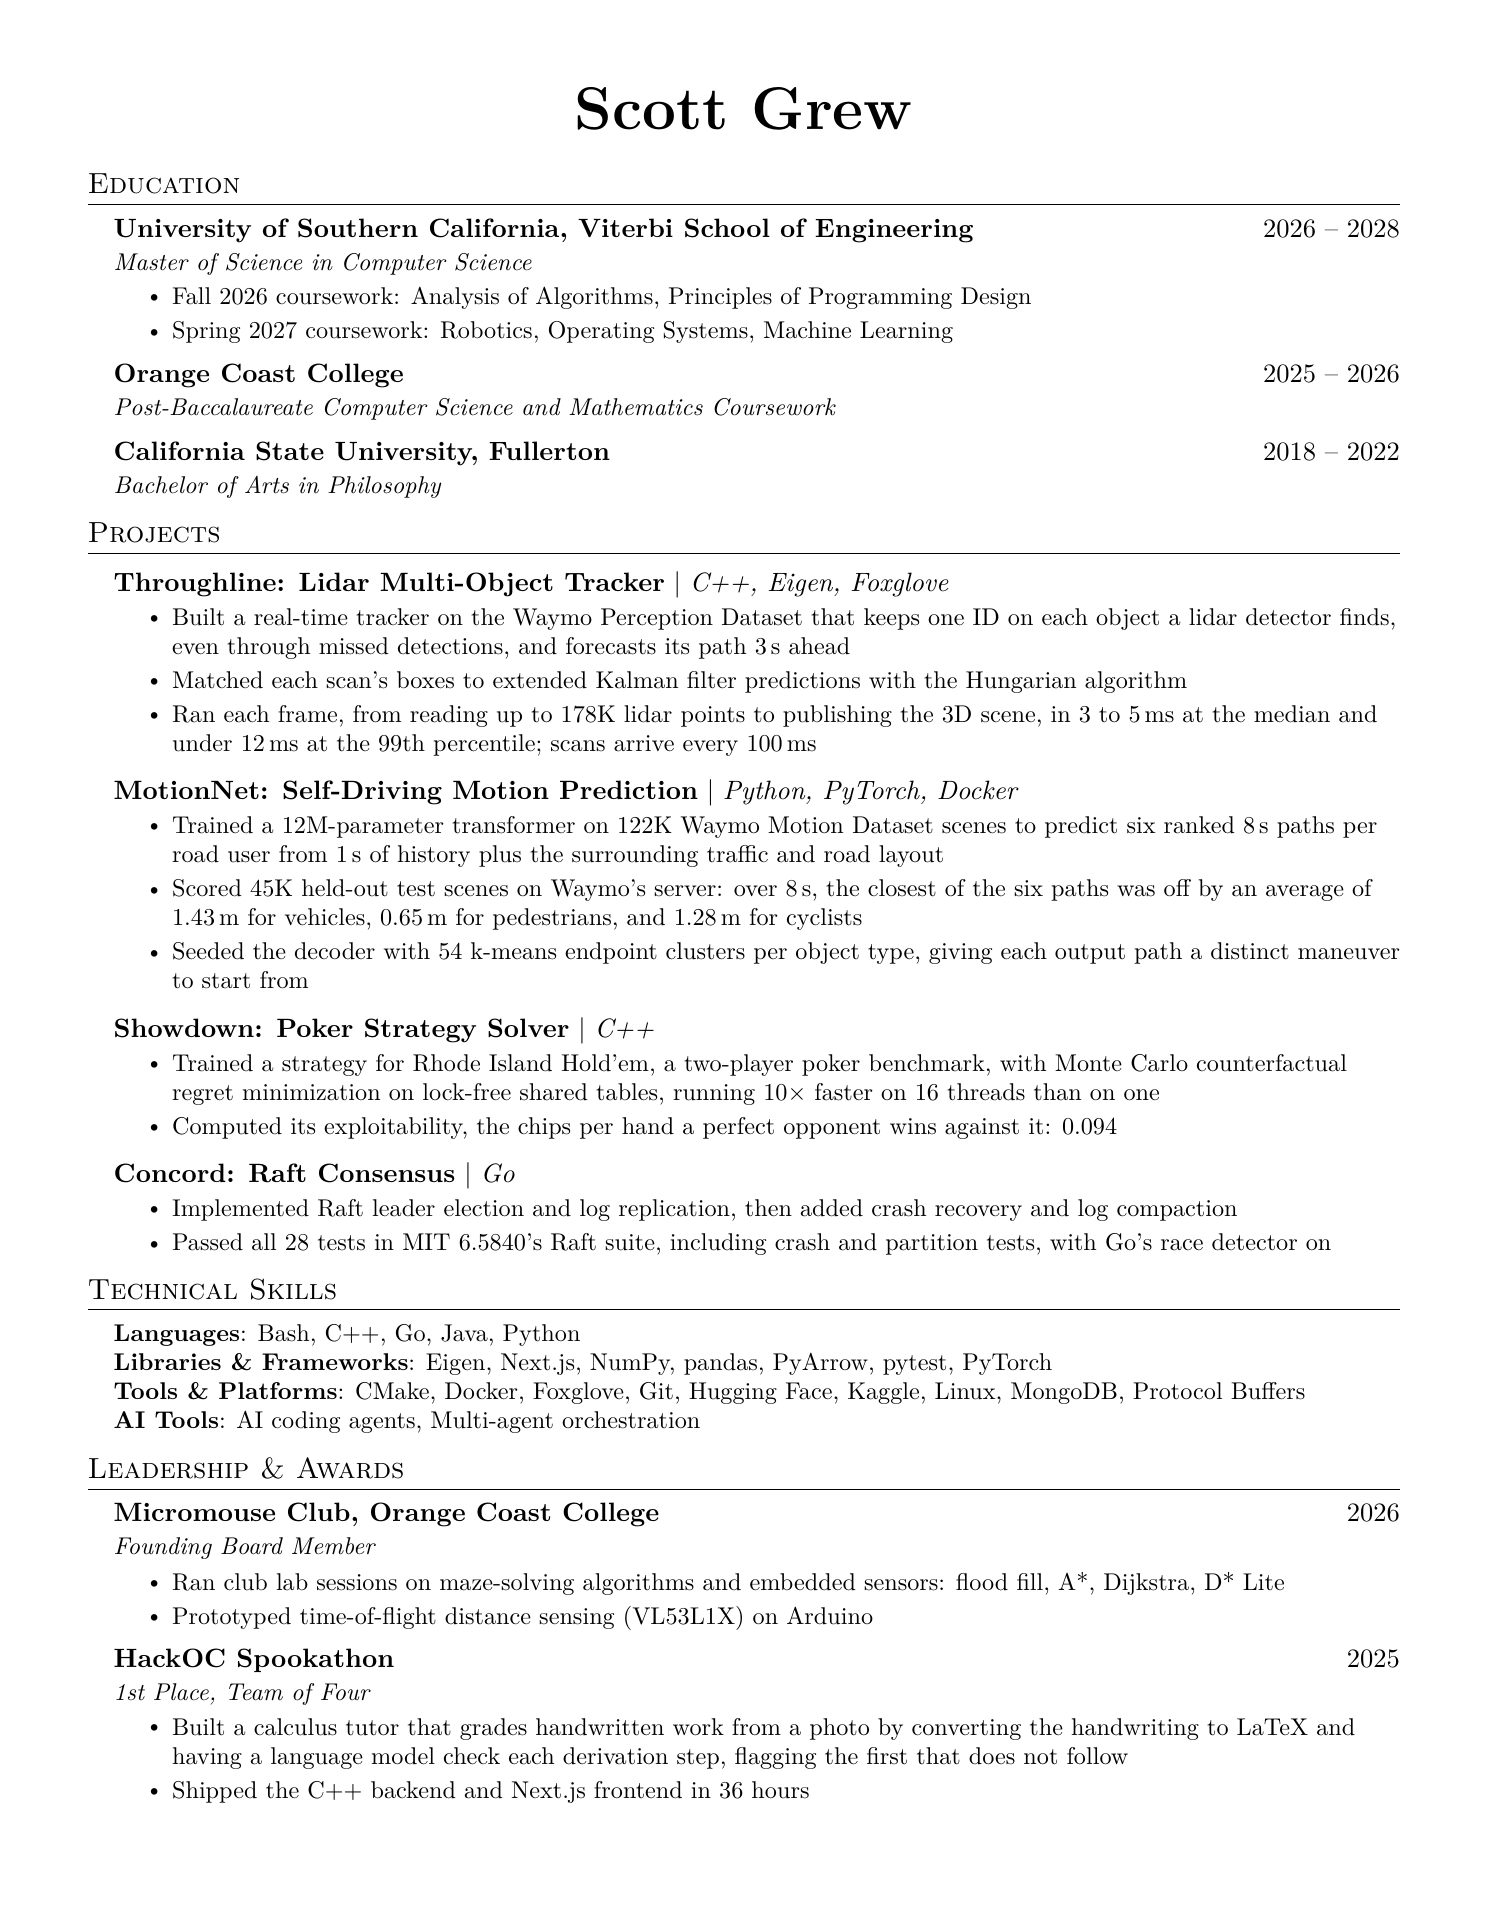
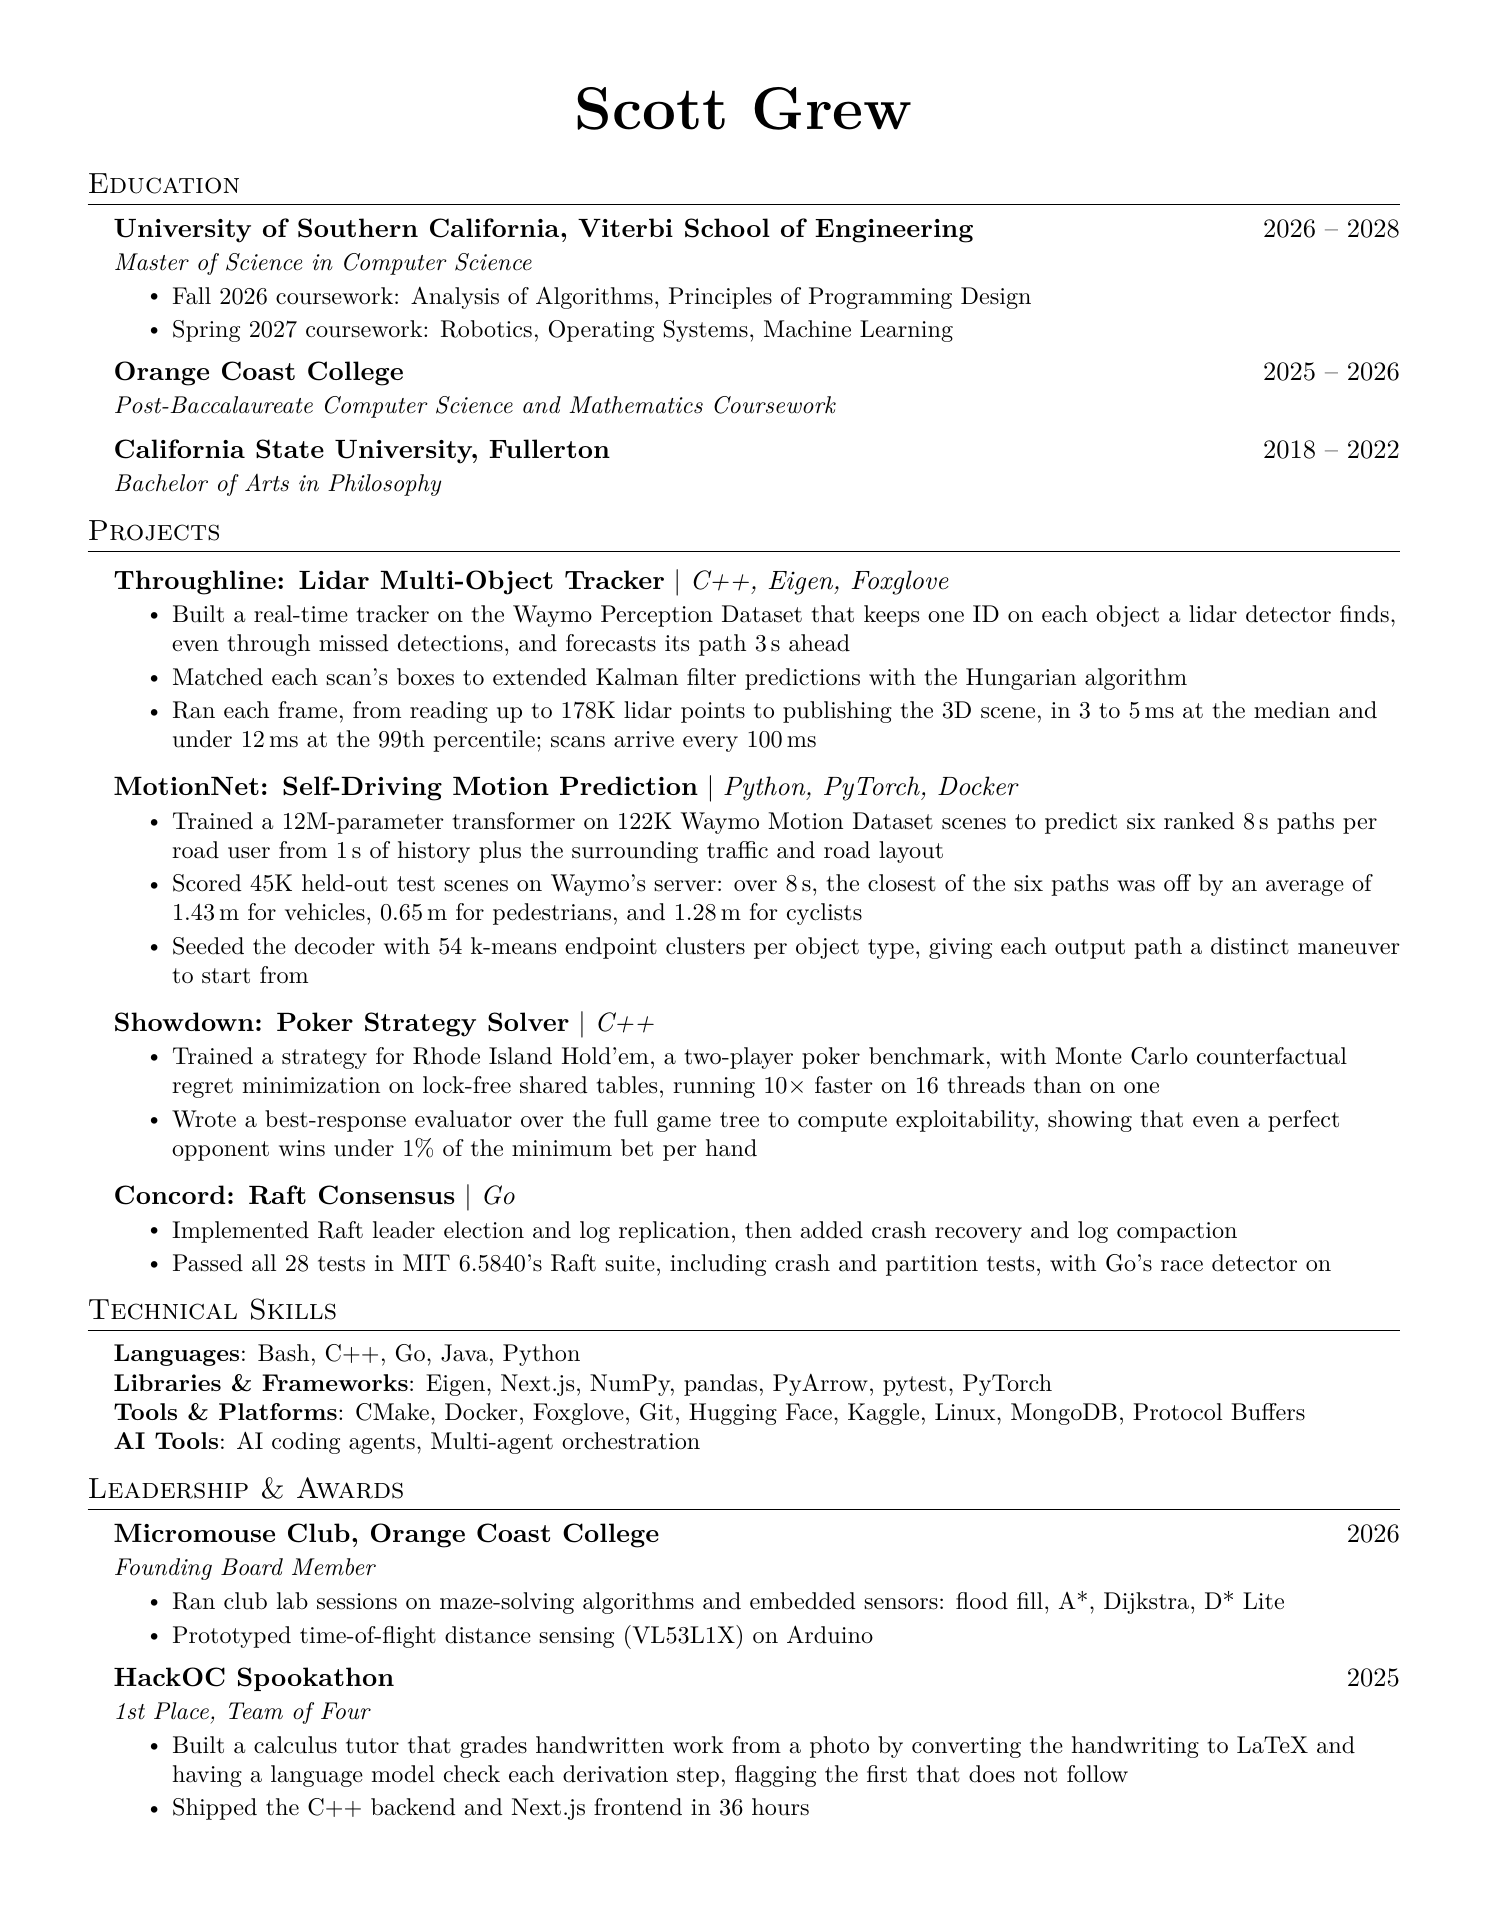
fix: CFR evaluation bullet

diff --git a/cv/resume.tex b/cv/resume.tex
@@ -121,7 +121,7 @@
       {\textbf{Showdown: Poker Strategy Solver} $|$ \emph{C++}}{}
       \resumeItemListStart
         \resumeItem{Trained a strategy for Rhode Island Hold'em, a two-player poker benchmark, with Monte Carlo counterfactual regret minimization on lock-free shared tables, running 10$\times$ faster on 16 threads than on one}
-        \resumeItem{Computed its exploitability, the chips per hand a perfect opponent wins against it: 0.094}
+        \resumeItem{Wrote a best-response evaluator over the full game tree to compute exploitability, showing that even a perfect opponent wins under 1\% of the minimum bet per hand}
       \resumeItemListEnd
     \resumeProjectHeading
       {\textbf{Concord: Raft Consensus} $|$ \emph{Go}}{}
